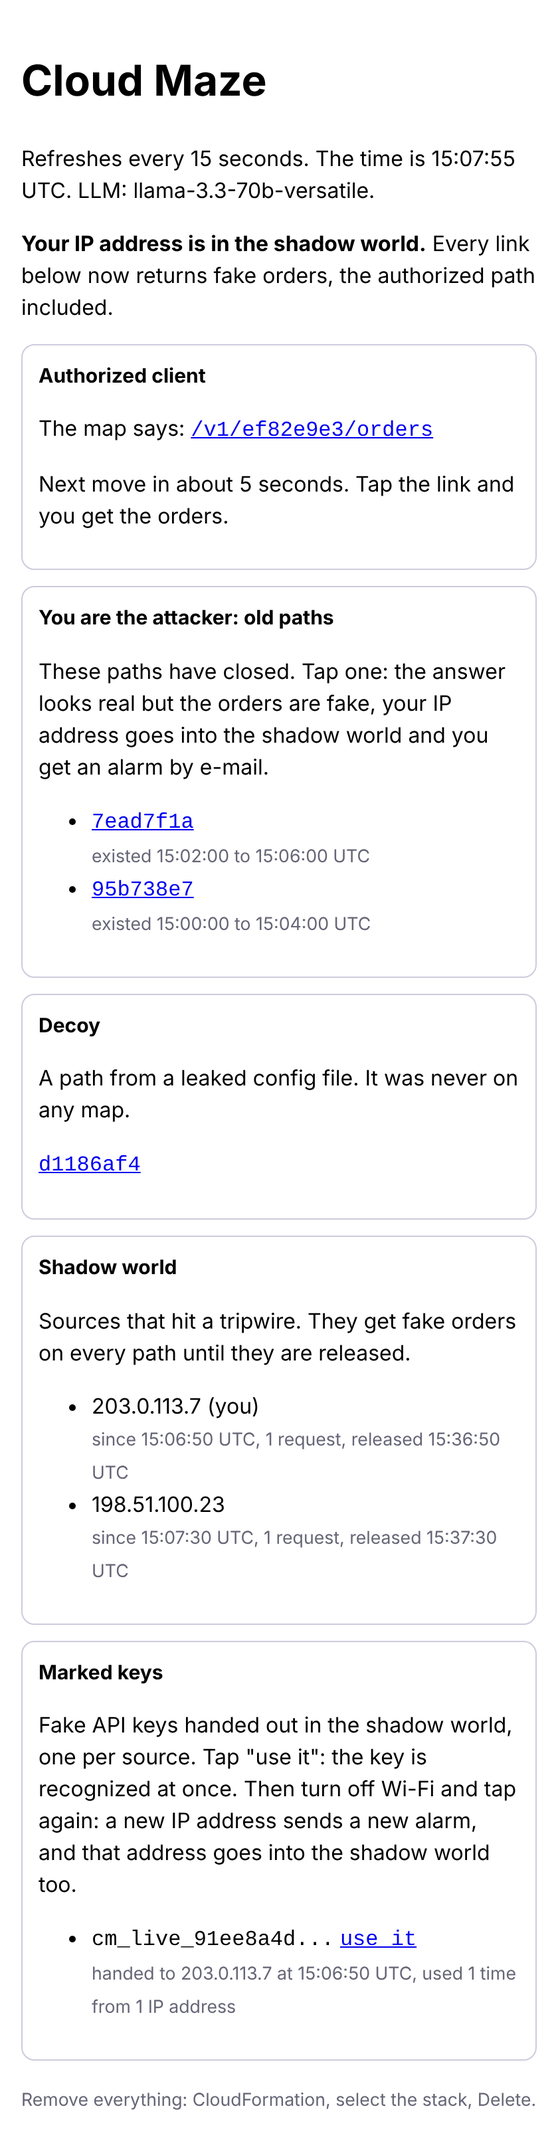
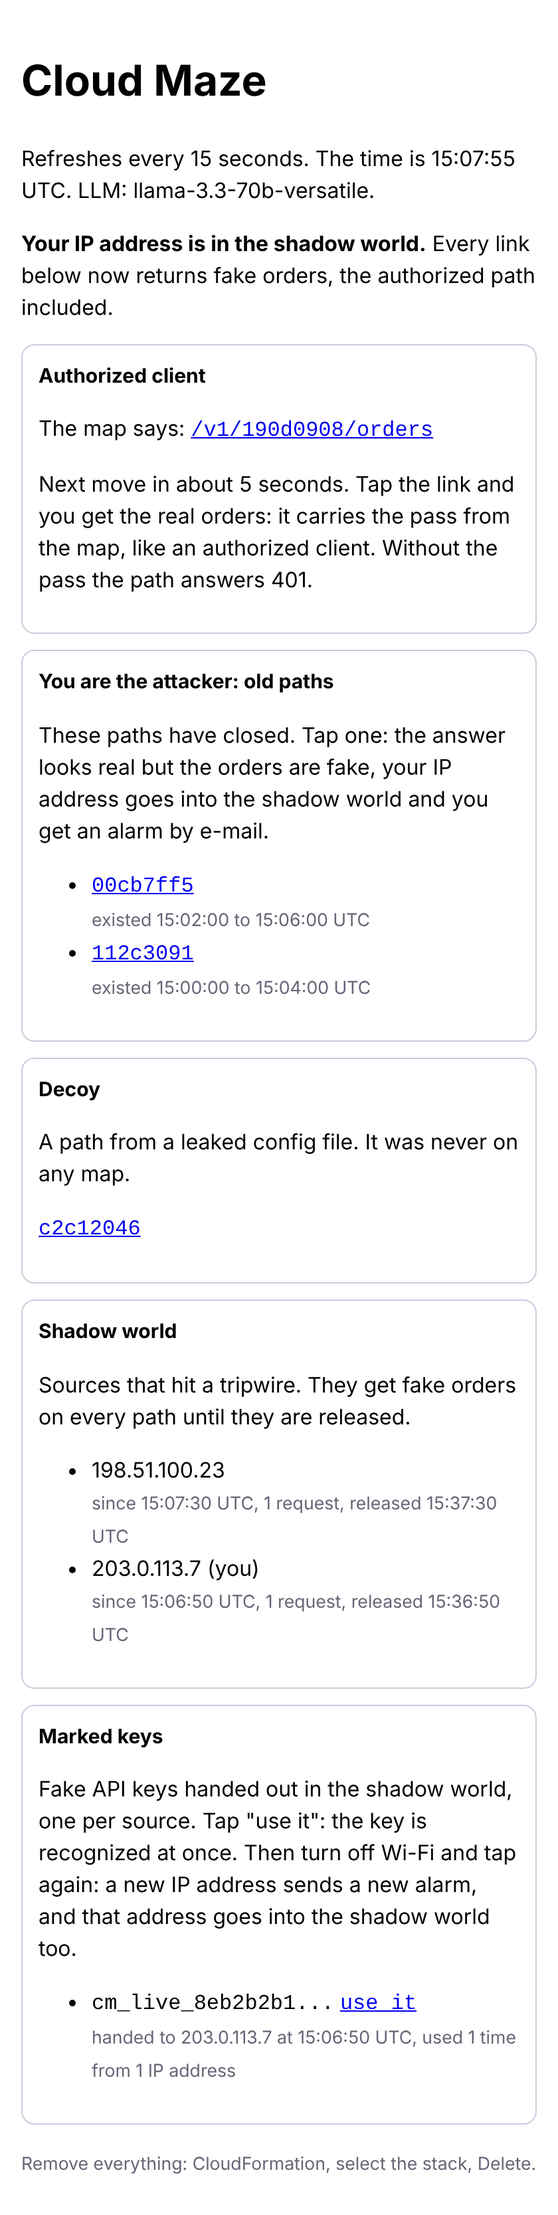
Fix the review findings: passes, look-alike answers, per-kind alarm caps
- Passes: the rotator gives every path its own pass, the map hands it to
  authorized clients, and they send it as X-Maze-Pass. A valid pass always
  gets the real orders, even from an IP address in the shadow world, so
  authorized clients behind a shared address are no longer fed fake data.
  An open path without a pass now answers 401.
- Look-alike answers: real and fake answers have the same shape, the real
  ones with an untracked key in the same format, and 404 and 401 bodies
  match API Gateway's own.
- Alarm cap blind spot: each alarm kind has its own hourly cap, so a flood
  of decoy hits cannot hide a stale path or a marked key, and the rotator
  e-mails a digest of held-back alarms once the hour is over.
- Panel: no-referrer, no-store and noindex, and the same 404 as the
  service for a wrong token.

The client script sends the pass, and the attacker script steals a full
request. Tests cover each fix; moving the shadow check before the pass
check, or sharing one cap across kinds, makes the matching test fail.
The guide's security review now lists what was fixed and what remains,
and the panel screenshot is re-rendered.

Claude-Session: https://claude.ai/code/session_01DBQF953LedQxMDd2hyHAQ3

diff --git a/aws/tests/test_lambdas.py b/aws/tests/test_lambdas.py
@@ -43,6 +43,23 @@ def lambda_sources() -> dict[str, str]:
 
 # ---- Fake AWS ----
 
+def _plain(value):
+    """Lets json.dumps copy sets and Decimals into plain Python values."""
+    if isinstance(value, set):
+        return {"__set__": sorted(value)}
+    return int(value)
+
+
+def _restore(value):
+    if isinstance(value, dict):
+        if set(value) == {"__set__"}:
+            return set(value["__set__"])
+        return {k: _restore(v) for k, v in value.items()}
+    if isinstance(value, list):
+        return [_restore(v) for v in value]
+    return value
+
+
 def as_dynamo(value):
     """DynamoDB returns numbers as Decimal."""
     if isinstance(value, bool):
@@ -77,8 +94,12 @@ class FakeTable:
         item = self.items.get(Key["pk"])
         return {"Item": as_dynamo(item)} if item else {}
 
-    def put_item(self, Item):
-        self.items[Item["pk"]] = json.loads(json.dumps(Item, default=int))
+    def put_item(self, Item, ConditionExpression=None):
+        if ConditionExpression == "attribute_not_exists(pk)" and Item["pk"] in self.items:
+            raise ConditionalCheckFailed()
+        elif ConditionExpression not in (None, "attribute_not_exists(pk)"):
+            raise NotImplementedError(ConditionExpression)
+        self.items[Item["pk"]] = _restore(json.loads(json.dumps(Item, default=_plain)))
 
     def update_item(self, Key, UpdateExpression, ExpressionAttributeValues,
                     ExpressionAttributeNames=None, ConditionExpression=None, ReturnValues=None):
@@ -96,12 +117,18 @@ class FakeTable:
             for part in [p.strip() for p in re.split(r",(?![^()]*\))", body) if p.strip()]:
                 if clause == "SET":
                     target, expr = [x.strip() for x in part.split("=", 1)]
-                    target = names.get(target, target)
+                    *parents, leaf = [names.get(t, t) for t in target.split(".")]
+                    holder = item
+                    for parent in parents:
+                        holder = holder[parent]
+                    added = re.fullmatch(r"if_not_exists\((\S+), (:\w+)\) \+ (:\w+)", expr)
                     match = re.fullmatch(r"if_not_exists\((\S+), (:\w+)\)", expr)
-                    if match:
-                        item.setdefault(target, values[match.group(2)])
+                    if added:
+                        holder[leaf] = holder.get(leaf, values[added.group(2)]) + values[added.group(3)]
+                    elif match:
+                        holder.setdefault(leaf, values[match.group(2)])
                     else:
-                        item[target] = values[expr]
+                        holder[leaf] = values[expr]
                 else:
                     target, ref = part.split()
                     target, value = names.get(target, target), values[ref]
@@ -256,6 +283,12 @@ class LambdaTest(unittest.TestCase):
         response = self.world.modules["ServiceFunction"].handler(event, None)
         return response["statusCode"], json.loads(response["body"])
 
+    def authorized(self, path, ip="1.2.3.4", headers=None):
+        """A request with the pass the map hands out for that path."""
+        state = self.state()
+        passes = {state.get("current"): state.get("currentPass"), state.get("previous"): state.get("previousPass")}
+        return self.call(path, ip=ip, headers={**(headers or {}), "x-maze-pass": passes.get(path, "")})
+
     def customers(self, body):
         return [o["customer"] for o in body.get("orders", [])]
 
@@ -274,25 +307,72 @@ class LambdaTest(unittest.TestCase):
 class MazeTests(LambdaTest):
     def test_current_and_previous_path_give_real_orders(self):
         first = self.state()["current"]
-        self.assertIn("Nordvind AB", self.customers(self.call(first)[1]))
+        self.assertIn("Nordvind AB", self.customers(self.authorized(first)[1]))
         self.advance(120)
         second = self.rotate()["current"]
-        self.assertIn("Nordvind AB", self.customers(self.call(first)[1]))
-        self.assertIn("Nordvind AB", self.customers(self.call(second)[1]))
+        self.assertIn("Nordvind AB", self.customers(self.authorized(first)[1]))
+        self.assertIn("Nordvind AB", self.customers(self.authorized(second)[1]))
 
     def test_map_points_at_the_current_path(self):
         doc = self.world.modules["MapFunction"].handler({}, None)
         self.assertEqual(doc["path"], self.state()["current"])
         self.assertEqual(doc["refresh_at"], 1_000_000 + 120 + 15)
+        self.assertEqual(doc["pass"], self.state()["currentPass"])
 
     def test_guess_is_404_without_alarm(self):
-        self.assertEqual(self.call("deadbeef")[0], 404)
+        # Same body as API Gateway's own 404 for an unknown route.
+        self.assertEqual(self.call("deadbeef"), (404, {"message": "Not Found"}))
         self.assertEqual(self.world.mails, [])
 
     def test_shuts_down_after_run_hours(self):
         self.advance(2 * 3600)
         self.assertEqual(self.rotate(), {"shut_down": True})
         self.assertIn("events.disable_rule", [m["subject"] for m in self.world.mails])
+
+
+class PassTests(LambdaTest):
+    def test_open_path_without_pass_is_refused_quietly(self):
+        status, body = self.call(self.state()["current"])
+        self.assertEqual((status, body), (401, {"message": "Unauthorized"}))
+        self.assertEqual(self.world.mails, [])
+        self.assertFalse(any(k.startswith("q#") for k in self.world.items))
+
+    def test_wrong_pass_is_refused(self):
+        current = self.state()["current"]
+        self.assertEqual(self.call(current, headers={"x-maze-pass": "guess"})[0], 401)
+
+    def test_previous_path_keeps_its_own_pass_during_the_overlap(self):
+        first, first_pass = self.state()["current"], self.state()["currentPass"]
+        self.advance(120); self.rotate()
+        status, body = self.call(first, headers={"x-maze-pass": first_pass})
+        self.assertIn("Nordvind AB", self.customers(body))
+        # A pass only works for its own path.
+        self.assertEqual(self.call(self.state()["current"], headers={"x-maze-pass": first_pass})[0], 401)
+
+    def test_authorized_client_on_a_shadowed_ip_still_gets_real_orders(self):
+        # An attacker and an authorized client share an IP address, as in an office or a mobile network.
+        self.call(self.stale_path(), ip="100.64.0.1")
+        current = self.state()["current"]
+        self.assertNotIn("Nordvind AB", self.customers(self.call(current, ip="100.64.0.1")[1]))
+        self.assertIn("Nordvind AB", self.customers(self.authorized(current, ip="100.64.0.1")[1]))
+
+    def test_stale_pass_does_not_save_a_stale_path(self):
+        first, first_pass = self.state()["current"], self.state()["currentPass"]
+        self.advance(120); self.rotate(); self.advance(120); self.rotate()
+        status, body = self.call(first, headers={"x-maze-pass": first_pass})
+        self.assertNotIn("Nordvind AB", self.customers(body))
+        self.assertEqual(self.world.mails[-1]["subject"], "Cloud Maze: stale path used")
+
+    def test_real_and_fake_answers_have_the_same_shape(self):
+        real = self.authorized(self.state()["current"])[1]
+        fake = self.call(self.stale_path(), ip="5.5.5.5")[1]
+        self.assertEqual(set(real), set(fake))
+        self.assertEqual(set(real["meta"]), set(fake["meta"]))
+        self.assertEqual(set(real["orders"][0]), set(fake["orders"][0]))
+        for answer in (real, fake):
+            self.assertRegex(answer["meta"]["api_key"], r"^cm_live_[0-9a-f]{24}$")
+        # The key in a real answer is not tracked.
+        self.assertNotIn("k#" + real["meta"]["api_key"], self.world.items)
 
 
 class ShadowWorldTests(LambdaTest):
@@ -313,7 +393,7 @@ class ShadowWorldTests(LambdaTest):
         status, body = self.call(current)
         self.assertNotIn("Nordvind AB", self.customers(body))
         self.assertEqual(body["meta"]["api_key"], key)
-        self.assertIn("Nordvind AB", self.customers(self.call(current, ip="9.9.9.9")[1]))
+        self.assertIn("Nordvind AB", self.customers(self.authorized(current, ip="9.9.9.9")[1]))
         self.assertEqual(len(self.world.mails), 1)
 
     def test_decoy_alarms(self):
@@ -323,7 +403,8 @@ class ShadowWorldTests(LambdaTest):
     def test_shadow_world_expires(self):
         self.call(self.stale_path())
         self.advance(31 * 60)
-        self.assertIn("Nordvind AB", self.customers(self.call(self.state()["current"])[1]))
+        self.assertIn("Nordvind AB", self.customers(self.authorized(self.state()["current"])[1]))
+        self.assertEqual(self.call(self.state()["current"])[0], 401)
 
 
 class MarkedKeyTests(LambdaTest):
@@ -353,7 +434,7 @@ class MarkedKeyTests(LambdaTest):
 
     def test_unknown_key_is_ignored(self):
         fake = "cm_live_" + "0" * 24
-        status, body = self.call(self.state()["current"], headers={"x-api-key": fake})
+        status, body = self.authorized(self.state()["current"], headers={"x-api-key": fake})
         self.assertIn("Nordvind AB", self.customers(body))
         self.assertEqual(self.world.mails, [])
 
@@ -365,9 +446,17 @@ class MarkedKeyTests(LambdaTest):
         self.assertIn("1.2.3.4 (you)", page)
         self.assertIn("Your IP address is in the shadow world", page)
 
+    def test_panel_link_carries_the_pass_and_the_page_hides_its_address(self):
+        response = self.panel()
+        self.assertIn("pass=" + self.state()["currentPass"], response["body"])
+        self.assertEqual(response["headers"]["referrer-policy"], "no-referrer")
+        self.assertEqual(response["headers"]["cache-control"], "no-store")
+        self.assertIn("noindex", response["headers"]["x-robots-tag"])
+
     def test_panel_rejects_wrong_token(self):
         event = {"pathParameters": {"token": "wrong"}, "requestContext": {"http": {}}}
-        self.assertEqual(self.world.modules["PanelFunction"].handler(event, None)["statusCode"], 404)
+        response = self.world.modules["PanelFunction"].handler(event, None)
+        self.assertEqual((response["statusCode"], json.loads(response["body"])), (404, {"message": "Not Found"}))
 
 
 class LlmTests(LambdaTest):
@@ -430,6 +519,29 @@ class AlarmCapTests(LambdaTest):
         self.assertEqual(len(subjects), 4)
         # Every source still went into the shadow world.
         self.assertEqual(sum(1 for k in self.world.items if k.startswith("q#")), 10)
+
+    def test_a_flood_of_decoys_cannot_hide_a_stale_path(self):
+        decoy = self.state()["decoys"][0]
+        for i in range(10):
+            self.call(decoy, ip=f"10.0.0.{i}")
+        self.call(self.stale_path(), ip="10.9.9.9")
+        self.assertEqual(self.world.mails[-1]["subject"], "Cloud Maze: stale path used")
+
+    def test_held_back_alarms_arrive_as_a_digest_after_the_hour(self):
+        decoy = self.state()["decoys"][0]
+        for i in range(8):
+            self.call(decoy, ip=f"10.0.0.{i}")
+        self.advance(3600)
+        self.rotate()
+        digest = [m for m in self.world.mails if m["subject"] == "Cloud Maze: digest of held-back alarms"]
+        self.assertEqual(len(digest), 1)
+        self.assertIn("5 alarms went over the hourly cap", digest[0]["message"])
+        self.assertIn("decoy: 5", digest[0]["message"])
+        for i in range(3, 8):
+            self.assertIn(f"10.0.0.{i}", digest[0]["message"])
+        self.advance(120)
+        self.rotate()
+        self.assertEqual(sum(1 for m in self.world.mails if m["subject"] == digest[0]["subject"]), 1)
 
     def test_cap_resets_the_next_hour(self):
         decoy = self.state()["decoys"][0]

diff --git a/aws/README.md b/aws/README.md
@@ -10,11 +10,11 @@ Everything is installed in your own account, and only you get the API address. A
 | --- | --- | --- |
 | The maze engine | EventBridge and Lambda (`rotator`) | Moves the service's path every two minutes. A path lives for two intervals, the second of which is the overlap. |
 | The maze state | DynamoDB | Current path, previous path, closed paths and decoys |
-| The service | API Gateway and Lambda (`service`) | `GET /v1/<path>/orders`. An open path returns the real orders. A closed path or a decoy is a tripwire: the source is put in the shadow world and the answer contains fake orders. Anything else returns 404. |
+| The service | API Gateway and Lambda (`service`) | `GET /v1/<path>/orders`. An open path with the pass from the map returns the real orders. An open path without a pass returns 401, like any API without credentials. A closed path or a decoy is a tripwire: the source is put in the shadow world and the answer contains fake orders. Anything else returns 404. |
 | The shadow world | DynamoDB and `service` | A source that hit a tripwire gets fake orders on every path, the real one included, for 30 minutes. Authorized clients notice nothing. |
 | Marked keys | DynamoDB and `service` | The fake orders include a fake API key made for that source. Whoever presents it, from any IP address, is recognized within seconds, sent into the shadow world and reported if the IP address is new for that key. |
 | The analyst | Lambda (`analyst`) | Sends the alarm e-mail. With an LLM connected, the e-mail includes an assessment, and the shadow world gets fake orders written by the LLM. |
-| The map service | Lambda (`map`) | Returns the current path. It can only be reached with your IAM identity, never from the internet. |
+| The map service | Lambda (`map`) | Returns the current path and its pass, which authorized clients send as `X-Maze-Pass`. Every path has its own pass. The map can only be reached with your IAM identity, never from the internet. |
 | The alarms | SNS | E-mails you when a source hits a tripwire, with the time window that shows when the path leaked. One e-mail per source, not per request. |
 | The control panel | API Gateway and Lambda (`panel`) | A phone-friendly web page at a secret address. Shows the current path, old paths, a decoy, the shadow world and the marked keys, all one tap away. |
 
@@ -65,7 +65,7 @@ Go to the stack's **Outputs** tab and tap the link next to **PanelUrl**. Bookmar
 
 The panel refreshes every 15 seconds and has five parts:
 
-- **Authorized client:** shows the path the map gives right now. Tap it and you get the orders. Wait two minutes and see that the path has changed.
+- **Authorized client:** shows the path the map gives right now. Tap it and you get the real orders: the link carries the path's pass, like an authorized client. Wait two minutes and see that the path has changed. Later, when your IP address is in the shadow world, this link still gives the real orders, because it has the pass.
 - **Old paths:** once the first path has closed, after about four minutes, it shows up here. Tap it: the answer looks real, but the orders come from customers other than Nordvind AB and are fake. You get an alarm e-mail that shows between which times the path existed, which is when it leaked.
 - **Decoy:** a path that was never on any map. It behaves like an old path.
 - **Shadow world:** after you tap an old path or the decoy, your IP address is listed here and the panel says so at the top. Tap the authorized path again: now it gives fake orders too. That is what an attacker experiences. After 30 minutes you are let out.
@@ -124,7 +124,7 @@ If you come back later, or CloudShell has restarted, just type `cloud-maze/cm` a
 1. **Choose 1** and enter your e-mail address. Installation takes a few minutes.
 2. **Open the e-mail from AWS Notifications and tap *Confirm subscription*.** Otherwise no alarms arrive.
 3. **Choose 2.** The authorized client fetches the map with your IAM identity and calls the service every ten seconds for six minutes. You see it switch paths every two minutes without a single request failing.
-4. **Choose 3.** You steal the path that is current right now, as if it had leaked in a log. It works, and you get the orders.
+4. **Choose 3.** You steal a full request to the path that is current right now, pass included, as if it had leaked in a log. It works, and you get the orders.
 5. **Wait 4–5 minutes.** The menu shows *CLOSED* once the stolen path has closed.
 6. **Choose 4.** The answer looks normal, but the orders are fake. Check your e-mail: there is an alarm that tells you which path was used, where the request came from, and between which times the path existed. That is when the leak happened.
 7. **Choose 5 and 6.** A decoy alarms the same way. A guessed path just returns 404 and no alarm.
@@ -220,23 +220,26 @@ How long the maze runs (`RunHours`) and how long a source stays in the shadow wo
 
 ## Security review
 
-This section lists what an attacker could exploit in this prototype, found by reviewing it as an attacker would. The first four were fixed; the rest are limits of the prototype that a real deployment has to solve.
+This section lists what an attacker could exploit in this prototype, found by reviewing it as an attacker would. Most of it is fixed; what remains are limits that a real deployment has to solve.
 
 **Fixed**
 
-- **Inbox flooding.** An attacker with many IP addresses could trigger one alarm e-mail per address. Alarm e-mails are now capped per hour.
-- **Phishing links through the LLM.** An attacker can put text in the user agent that steers the LLM, for example to add a link to a fake login page in the e-mail to you. Links are now removed from the LLM's text. The facts above it always come from the code.
-- **A table that only grows.** Marked keys were kept forever. They now expire after 30 days.
-- **An incomplete panel.** With many entries, the panel only read the first page of the table. It now follows up to ten pages.
+- **Shared IP addresses.** The shadow world recognizes sources by IP address, so an authorized client behind the same address as an attacker, such as in an office, a VPN or a mobile network, used to get fake data without noticing. Authorized clients now send the pass from the map, and a valid pass always gets the real orders, even from an address in the shadow world.
+- **A service without a login.** An open path used to work for anyone who knew it. It now requires the pass, and answers 401 without one.
+- **Answers that gave the shadow world away.** The `meta` field with the marked key only appeared in fake answers, and the service's errors differed from API Gateway's own. Real and fake answers now have the same shape, the real ones with an untracked key in the same format, and errors match API Gateway's.
+- **A blind spot in the alarm cap.** An attacker could trigger many alarms first and hide a later, targeted one in the same hour. Each kind of alarm now has its own cap, so a flood of decoy hits cannot hide a stale path or a marked key, and alarms that a cap held back arrive as a digest once the hour is over.
+- **Inbox flooding.** An attacker with many IP addresses could trigger one alarm e-mail per address. Alarm e-mails are capped per hour and kind.
+- **Phishing links through the LLM.** An attacker can put text in the user agent that steers the LLM, for example to add a link to a fake login page in the e-mail to you. Links are removed from the LLM's text. The facts above it always come from the code.
+- **A panel address that could leak.** The panel now tells browsers not to send its address on to other sites, not to cache it and not to index it.
+- **A table that only grows, and an incomplete panel.** Marked keys now expire after 30 days, and the panel follows up to ten pages of the table.
 
 **Known limits**
 
-- **The throttle can be used against you.** The limit of 2 requests per second applies to the whole API, not per source. That protects your bill, but an attacker who sends more than that can make authorized clients get errors. A real deployment needs per-IP rate limits, for example a rate-based rule in AWS WAF, which has a fixed monthly cost.
-- **Shared IP addresses.** The shadow world recognizes sources by IP address. An authorized client behind the same address as an attacker, such as in an office, a VPN or a mobile network that shares addresses, also gets fake data, without noticing. A real deployment should have authorized clients sign their requests to the service and only send unsigned requests into the shadow world.
-- **The deception can be spotted.** An attacker who saw the real orders before the path closed will notice that the customers change. The `meta` field with the marked key only appears in fake answers, and unknown paths and unknown routes answer with slightly different error messages. A careful attacker can use such differences to tell the shadow world from the real service.
-- **The alarm cap is also a blind spot.** An attacker who first triggers many alarms can hide a later, targeted one in the same hour. It is still in the logs, but not in your inbox.
-- **The panel address is a key.** Anyone with the panel address can see the current path, which is the map. Do not share it or show it in screenshots.
-- **The service has no login of its own,** and the LLM key is stored as an environment variable. Both are described elsewhere in this guide.
+- **The throttle can be used against you.** The limit of 2 requests per second applies to the whole API, not per source. That protects your bill, but an attacker who sends more than that can make authorized clients get errors. Per-source limits need AWS WAF in front of the API, which has a fixed monthly cost.
+- **The deception can still be spotted by a careful attacker.** Someone who saw the real orders before the path closed will notice that the customers change.
+- **A stolen pass works until its path closes.** Whoever steals a full request, pass included, can use it for up to two intervals. After that it is a tripwire like the path.
+- **The panel address is still a key.** Anyone with it can see the current path and its pass. Do not share it or show it in screenshots.
+- **The LLM key is stored as an environment variable** on the `analyst` function, visible to anyone who can read the function's configuration in your account.
 
 ## Differences from the concept
 
@@ -245,7 +248,7 @@ Phase 1 shows the core: the path moves with overlap, the authorized find their w
 - **The path check happens in Lambda.** In the concept, CloudFront and WAF stop old paths at the edge.
 - **The map is not signed.** IAM protects it, but KMS signing is not included yet.
 - **Only the address moves.** Keys and allowed source addresses do not rotate.
-- **The service has no login of its own.** In reality Cloud Maze is a layer on top of ordinary authentication.
+- **The pass is the only login.** In reality Cloud Maze is a layer on top of ordinary authentication, such as OAuth or mTLS.
 - **Alarms go out by e-mail.** A real version would collect them in Security Hub.
-- **The shadow world recognizes sources by IP address.** Several users behind the same IP address, such as in an office or in CloudShell, end up there together. Marked keys follow an attacker who switches address, but only if they use the key.
+- **The shadow world recognizes sources by IP address.** Several unauthorized users behind the same address end up there together. Authorized clients are not affected, since their pass always gets them through. Marked keys follow an attacker who switches address, but only if they use the key.
 - **Marked keys are accepted in the address as `?api_key=`** so they can be tested with a tap. A real API would only accept keys in a header.

diff --git a/README.md b/README.md
@@ -36,7 +36,7 @@ The AWS version shuts itself down after two hours and costs practically nothing 
 
 ## What it does
 
-- **The path rotates.** `/v1/k7f2q9/orders` becomes `/v1/m3x8a1/orders` on a schedule. Authorized clients fetch a map through IAM, and an overlap keeps both paths open while they switch, so nobody gets locked out.
+- **The path rotates.** `/v1/k7f2q9/orders` becomes `/v1/m3x8a1/orders` on a schedule. Authorized clients fetch a map and a pass through IAM, and an overlap keeps both paths open while they switch, so nobody gets locked out. The pass also keeps them out of the shadow world, even on a shared IP address.
 - **Old paths become tripwires.** Authorized clients never use them, so a hit is a strong signal. The alarm says when the path existed, which is when the information leaked.
 - **Attackers land in a shadow world.** Every path they call works, the real one included, but the data is fake. Everyone else still gets the real service.
 - **Marked keys follow them.** The fake data includes a fake API key made for that attacker. It is recognized within seconds from any IP address.
@@ -405,6 +405,7 @@ Packaged installation through AWS CloudFormation or CDK, an overview of the maze
 | **Overlap** | The time when both the old and the new path work, so no authorized client is locked out |
 | **Tripwire** | A closed path or a decoy that raises an alarm when someone uses it |
 | **Shadow world** | Where a source that hit a tripwire ends up: every path works, but all data is fake |
+| **Pass** | A secret that the map hands out with each path. Authorized clients send it with every request, and it always gets them the real service. |
 | **Marked key** | A fake API key handed out in the shadow world, made for one source, that gives the attacker away wherever it is used |
 | **Half-life** | How long information about the system stays useful to an attacker |
 | **mTLS** | Mutual TLS, where both client and server present certificates |
